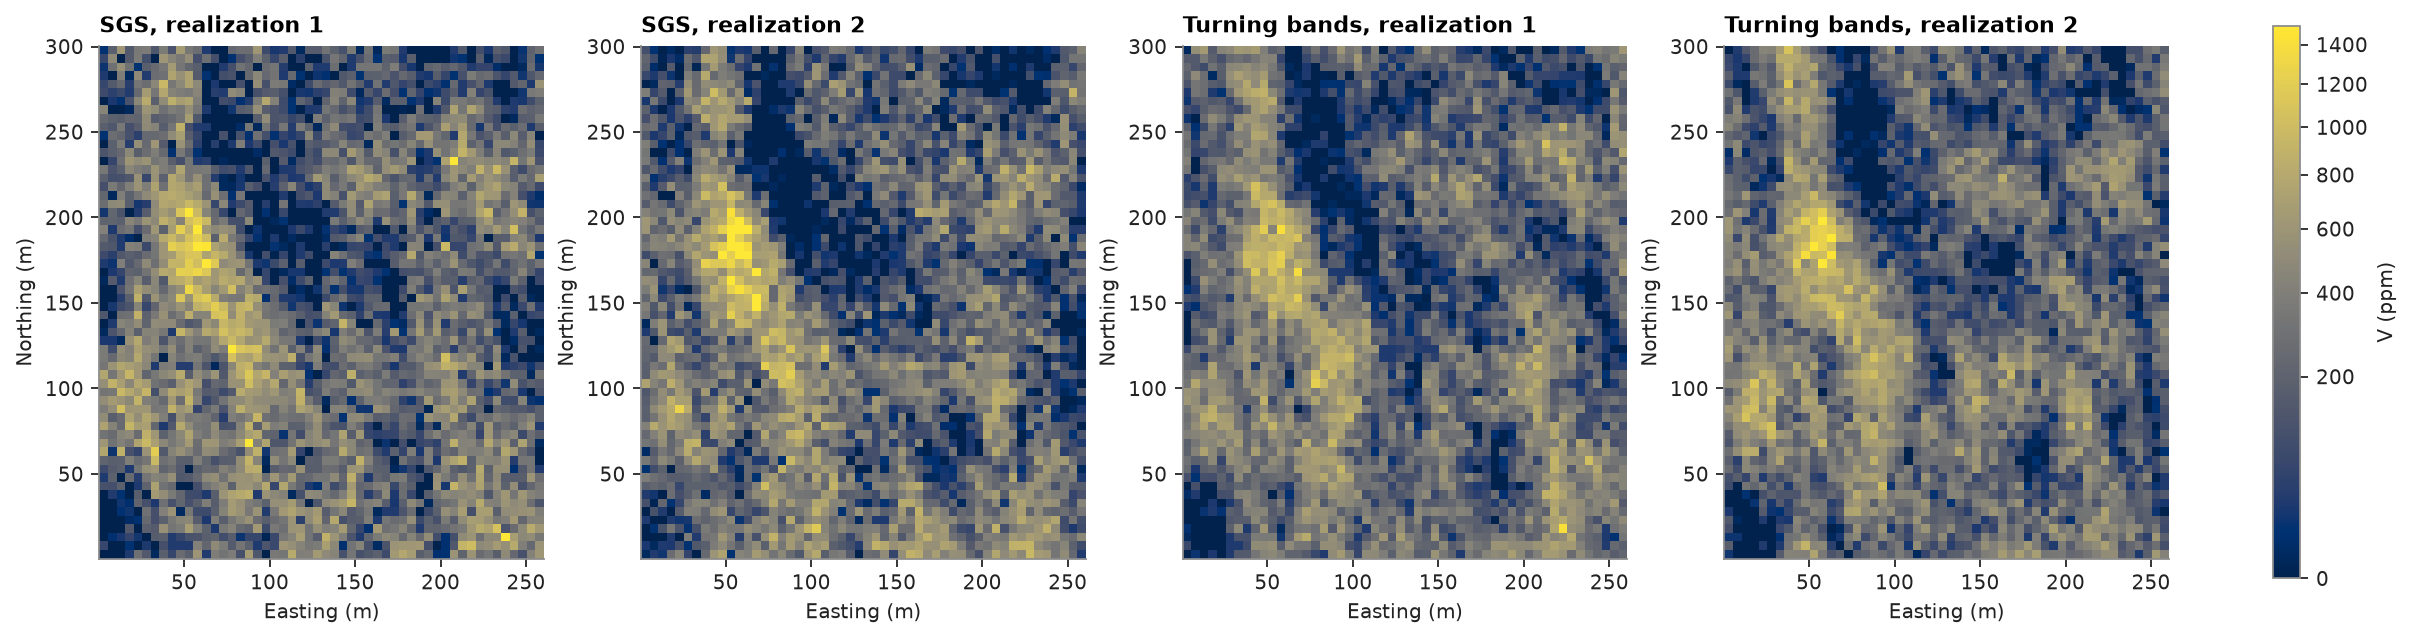
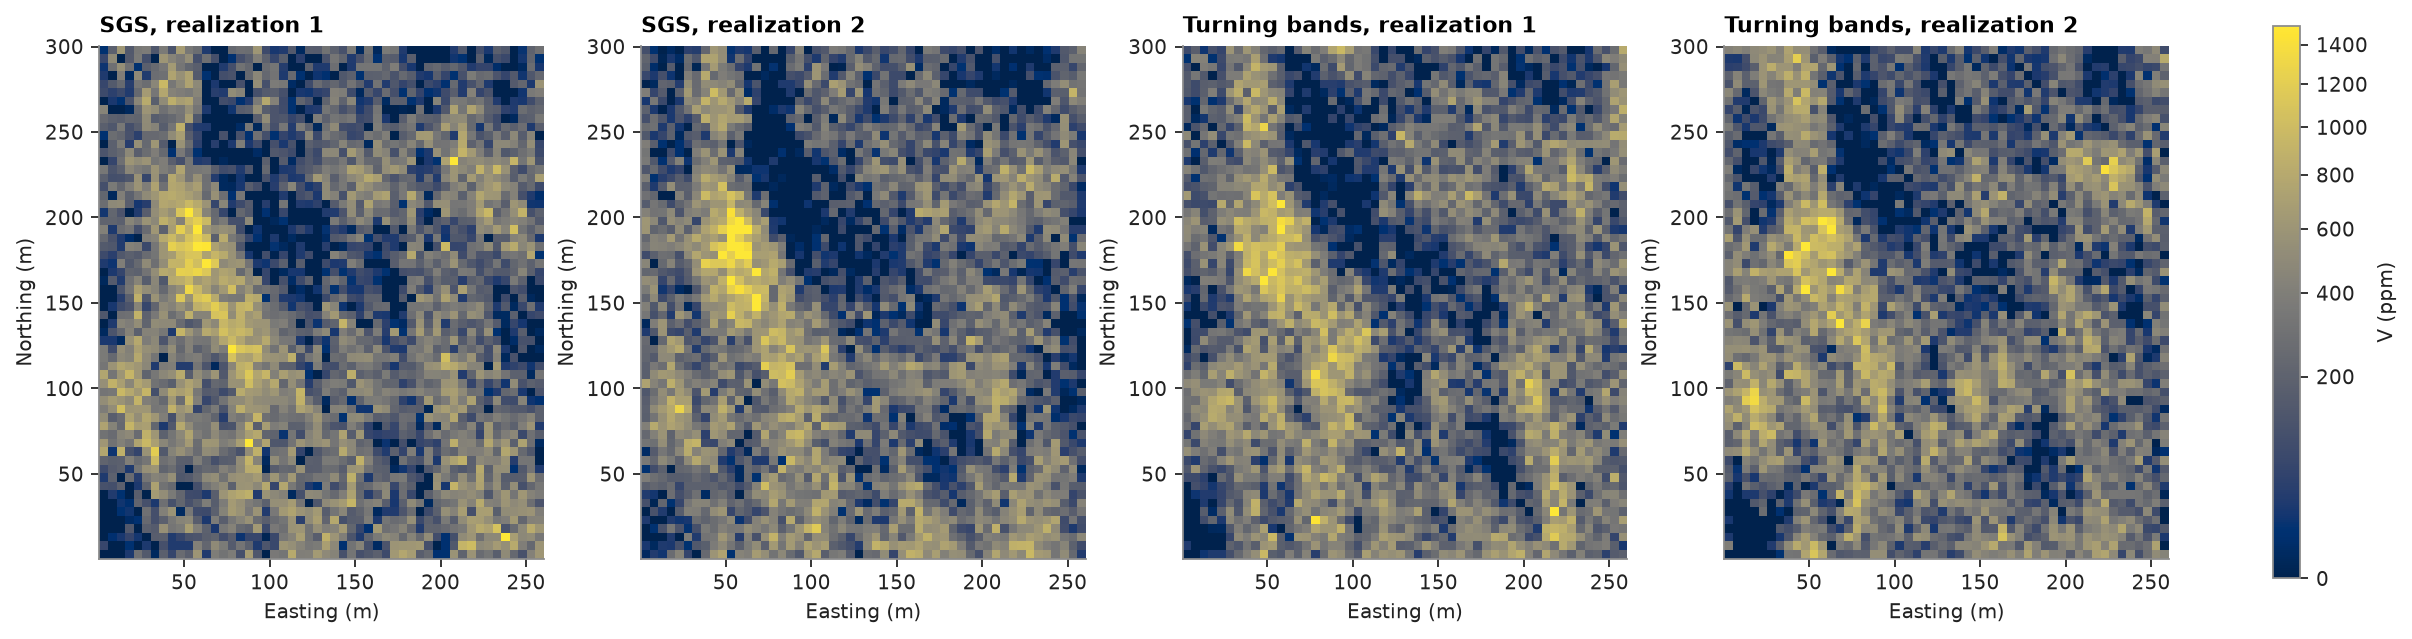
docs(examples): re-render topic 38 with the nugget reproduced

Changed region(s): [[0.4664, 0.0595, 0.6841, 0.892], [0.7152, 0.0595, 0.9017, 0.892]]

diff --git a/examples/topics/38-turning-bands/example_38.py b/examples/topics/38-turning-bands/example_38.py
@@ -65,7 +65,7 @@ for name, reals, seconds in (("SGS", by_sgs, sgs_seconds), ("turning bands", by_
 
 
 # %% [markdown]
-# Both follow the same high-grade trends; turning bands' realizations are smoother at short scale:
+# Both follow the same high-grade trends, with the same short-scale scatter:
 
 # %%
 shape = (60, 52)
@@ -86,8 +86,8 @@ save(fig, "realizations")
 
 
 # %% [markdown]
-# Along the major axis both reach the sill at the model range, but at the first lags turning bands falls below the
-# model nugget, where SGS follows it:
+# Along the major axis both follow the model, from its nugget at the first lags to the sill at its range. Turning bands
+# simulates the nugget as independent noise at each node, since the bands carry only the structures:
 
 # %%
 h = np.linspace(0, 120, 200)

diff --git a/examples/topics/38-turning-bands/README.md b/examples/topics/38-turning-bands/README.md
@@ -69,11 +69,11 @@ for name, reals, seconds in (("SGS", by_sgs, sgs_seconds), ("turning bands", by_
 </details>
 
 ```text
-          SGS: 20 realizations in 0.48 s, mean 301 ppm, variance 71507 ppm²
-turning bands: 20 realizations in 0.27 s, mean 291 ppm, variance 60711 ppm²
+          SGS: 20 realizations in 0.45 s, mean 301 ppm, variance 71507 ppm²
+turning bands: 20 realizations in 0.24 s, mean 300 ppm, variance 70795 ppm²
 ```
 
-Both follow the same high-grade trends; turning bands' realizations are smoother at short scale:
+Both follow the same high-grade trends, with the same short-scale scatter:
 
 <details><summary>Python</summary>
 
@@ -99,8 +99,8 @@ save(fig, "realizations")
 
 ![realizations](realizations.png)
 
-Along the major axis both reach the sill at the model range, but at the first lags turning bands falls below the
-model nugget, where SGS follows it:
+Along the major axis both follow the model, from its nugget at the first lags to the sill at its range. Turning bands
+simulates the nugget as independent noise at each node, since the bands carry only the structures:
 
 <details><summary>Python</summary>
 
